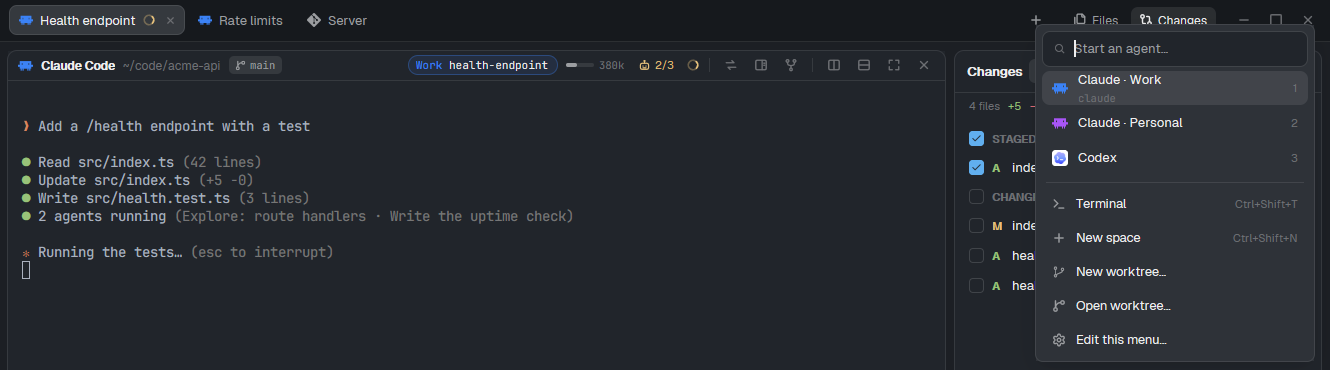
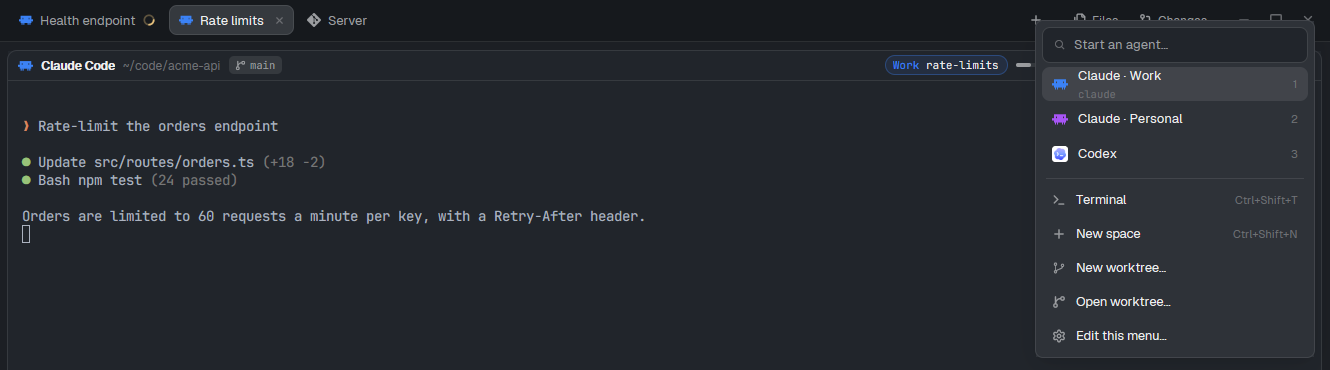
docs: previews with the changes panel's list/tree buttons

diff --git a/README.md b/README.md
@@ -24,7 +24,7 @@ and *Codex* (teal), on two machines: this computer (green) and *devbox* (amber).
   folder and branch, its account chip with the conversation's name, the context it has used, its
   sub-agents (2 of 3 running) and, on hover, fork, side chat, send a brief.
 - **Right: the changes panel** ([`falcon-changes`](falcon-changes/README.md)), here with an inline
-  diff open (a list here; it also shows a folder tree), or the files panel ([`falcon-files`](falcon-files/README.md)) with its button.
+  diff open in its folder tree (a list is a click away), or the files panel ([`falcon-files`](falcon-files/README.md)) with its button.
 - **Bottom: the status bar** ([`falcon-status`](falcon-status/README.md)): the focused agent's model
   and effort, its account and plan (*Work*, Max), and its 5-hour and weekly usage.
 
